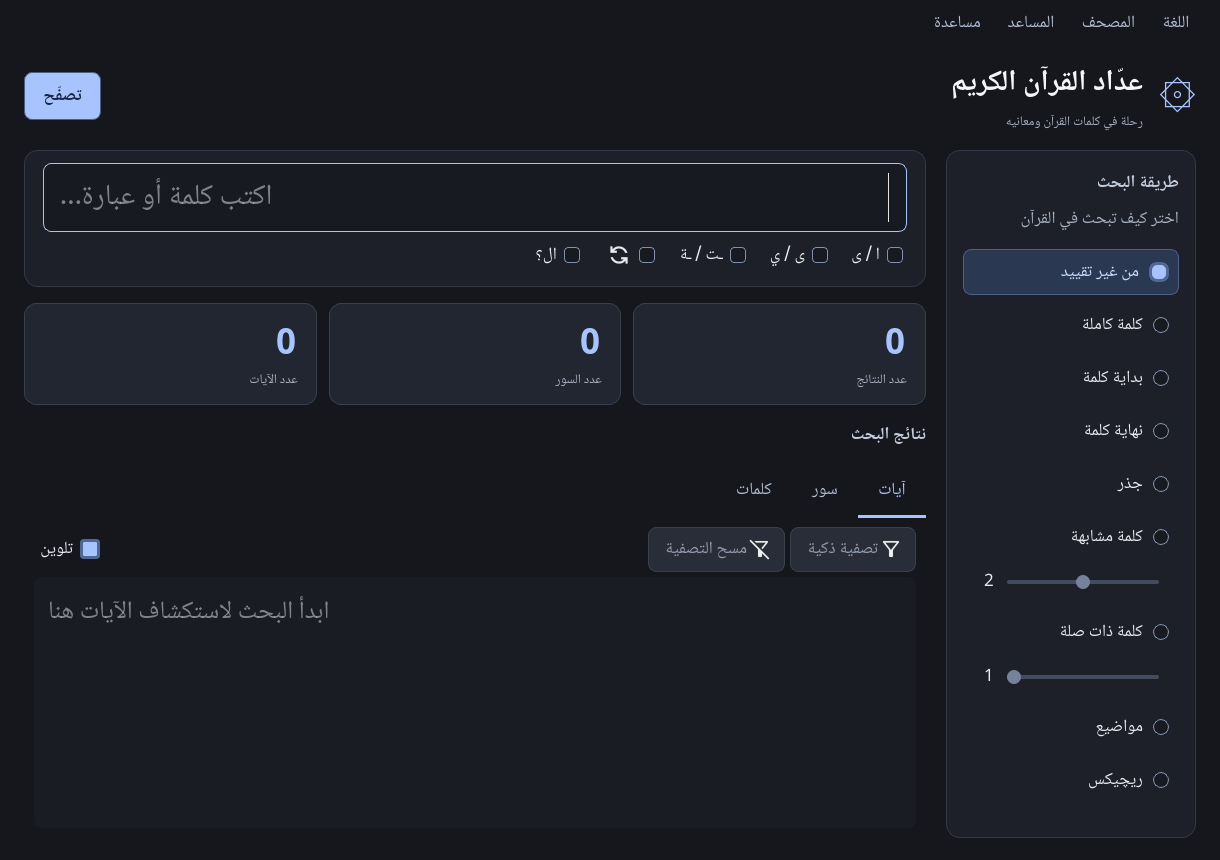
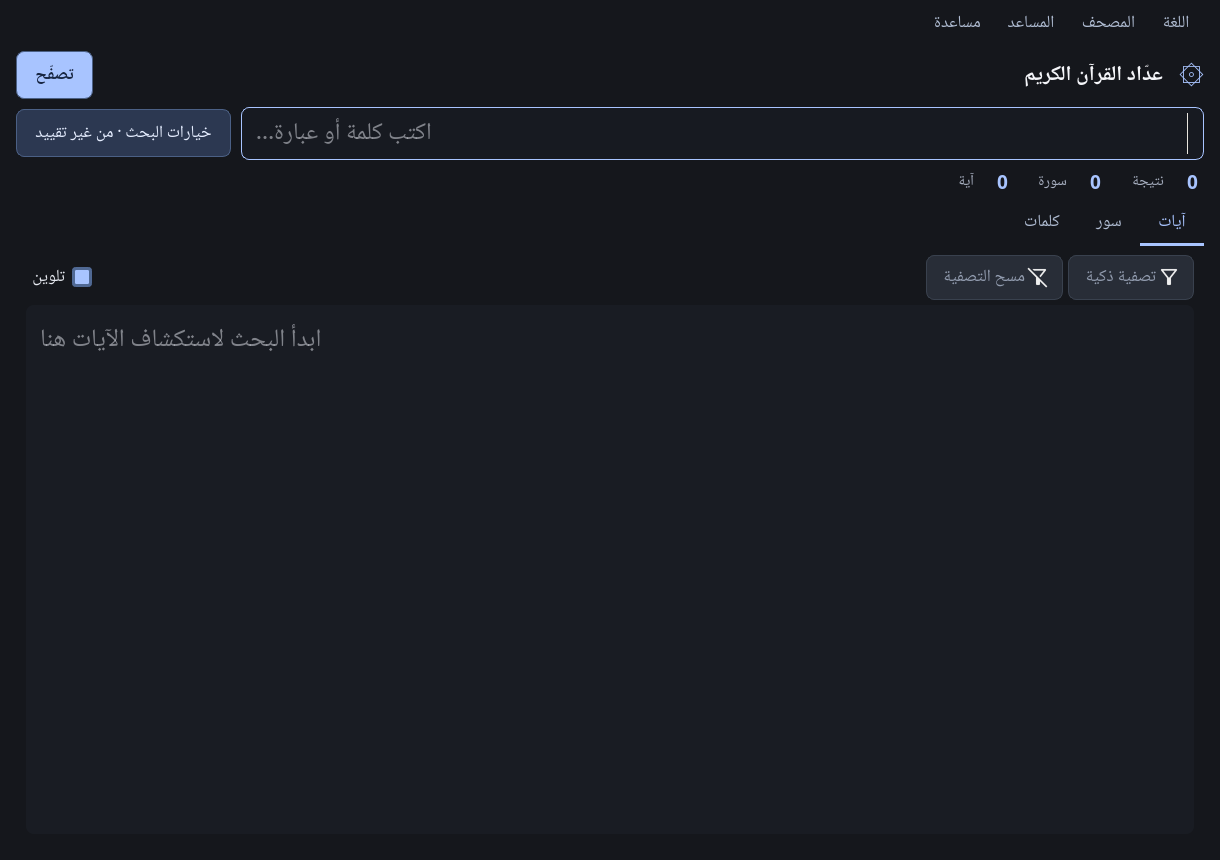
Prioritize results with compact controls and collapsible search options

diff --git a/gui/main_window/modern_main_window.py b/gui/main_window/modern_main_window.py
@@ -29,21 +29,16 @@ class Ui_MainWindow(DesignerUi):
         self.centralwidget = QWidget(window)
         self.centralwidget.setObjectName("centralwidget")
         root = QVBoxLayout(self.centralwidget)
-        root.setContentsMargins(24, 12, 24, 22)
-        root.setSpacing(16)
+        root.setContentsMargins(16, 4, 16, 16)
+        root.setSpacing(8)
 
         header = QHBoxLayout()
         header.setSpacing(16)
         self.brand_mark = QLabel("۞")
         self.brand_mark.setObjectName("brandMark")
         header.addWidget(self.brand_mark)
-        heading = QVBoxLayout()
-        heading.setSpacing(2)
         self.title = self._label("title")
-        self.subtitle = self._label("subtitle")
-        heading.addWidget(self.title)
-        heading.addWidget(self.subtitle)
-        header.addLayout(heading, 1)
+        header.addWidget(self.title, 1)
         self.browse_button = QToolButton()
         self.browse_button.setObjectName("browseButton")
         self.browse_button.setDefaultAction(self.mushafNavigationButton)
@@ -65,10 +60,7 @@ class Ui_MainWindow(DesignerUi):
         modes_layout.setContentsMargins(16, 18, 16, 18)
         modes_layout.setSpacing(7)
         self.modes_title = self._label("section")
-        self.modes_hint = self._label("muted")
-        self.modes_hint.setWordWrap(True)
         modes_layout.addWidget(self.modes_title)
-        modes_layout.addWidget(self.modes_hint)
         modes_layout.addSpacing(8)
         self.mode_buttons = [
             self.noRestrictionsRadioButton, self.fullWordRadioButton,
@@ -84,37 +76,46 @@ class Ui_MainWindow(DesignerUi):
                 modes_layout.addLayout(self._threshold_row(self.similarityThresholdSlider, self.similarityThresholdLabel))
             elif button is self.relatedWordsRadioButton:
                 modes_layout.addLayout(self._threshold_row(self.relatedWordsThresholdSlider, self.relatedWordsThresholdLabel))
+        modes_layout.addSpacing(12)
+        self.refinements_title = self._label("section")
+        modes_layout.addWidget(self.refinements_title)
+        self.refinements = (self.alifAlifMaksuraCheckbox, self.yaAlifMaksuraCheckbox,
+                            self.finalTaCheckbox, self.wordPermutationsCheckbox,
+                            self.optionalAlTarifCheckbox)
+        for checkbox in self.refinements:
+            modes_layout.addWidget(checkbox)
+            checkbox.toggled.connect(self._update_options_summary)
         modes_layout.addStretch()
         self.sidebar.setWidget(modes)
-        workspace.addWidget(self.sidebar)
+        self.sidebar.hide()
 
         content = QVBoxLayout()
-        content.setSpacing(16)
-        search_card, search_layout = self._card()
-        self.label.setProperty("role", "section")
+        content.setSpacing(6)
+        search_row = QHBoxLayout()
+        search_row.setSpacing(10)
         self.label.setBuddy(self.searchWord)
         self.label.hide()
-        self.label.setParent(search_card)
+        self.label.setParent(self.centralwidget)
         self.searchWord.setClearButtonEnabled(True)
         self.searchWord.setLayoutDirection(Qt.LayoutDirection.RightToLeft)
         self.searchWord.setAlignment(Qt.AlignmentFlag.AlignRight)
-        search_layout.addWidget(self.searchWord)
-        options = QHBoxLayout()
-        options.setSpacing(14)
-        for checkbox in (self.alifAlifMaksuraCheckbox, self.yaAlifMaksuraCheckbox,
-                         self.finalTaCheckbox, self.wordPermutationsCheckbox,
-                         self.optionalAlTarifCheckbox):
-            options.addWidget(checkbox)
-        options.addStretch()
-        search_layout.addLayout(options)
-        content.addWidget(search_card)
+        search_row.addWidget(self.searchWord, 1)
+        self.options_button = QToolButton()
+        self.options_button.setObjectName("optionsButton")
+        self.options_button.setCheckable(True)
+        self.options_button.toggled.connect(self._toggle_options)
+        self.searchOptionsButtonGroup.buttonToggled.connect(self._update_options_summary)
+        search_row.addWidget(self.options_button)
+        root.addLayout(search_row)
 
-        stats = QHBoxLayout()
-        stats.setSpacing(12)
+        self.result_summary = QFrame()
+        self.result_summary.setObjectName("resultSummary")
+        stats = QHBoxLayout(self.result_summary)
+        stats.setContentsMargins(4, 0, 4, 0)
+        stats.setSpacing(8)
         for label, value in ((self.label_2, self.matchesNumber),
                              (self.label_4, self.matchesNumberSurahs),
                              (self.label_5, self.matchesNumberVerses)):
-            card, layout = self._card("stat")
             label.setProperty("role", "statLabel")
             value.setProperty("role", "count")
             value.setEnabled(True)
@@ -124,15 +125,13 @@ class Ui_MainWindow(DesignerUi):
             palette = value.palette()
             palette.setColor(QPalette.ColorRole.PlaceholderText, QColor("#a8c4ff"))
             value.setPalette(palette)
-            value.setMinimumWidth(0)
-            value.setSizePolicy(QSizePolicy.Policy.Ignored, QSizePolicy.Policy.Fixed)
-            layout.addWidget(value)
-            layout.addWidget(label)
-            stats.addWidget(card, 1)
-        content.addLayout(stats)
+            value.textChanged.connect(lambda _text, field=value: self._size_count(field))
+            stats.addWidget(value)
+            stats.addWidget(label)
+            stats.addSpacing(20)
+        stats.addStretch()
+        content.addWidget(self.result_summary)
 
-        self.results_title = self._label("section")
-        content.addWidget(self.results_title)
         self.tabWidget.setTabShape(QTabWidget.TabShape.Rounded)
         self.tabWidget.setDocumentMode(True)
         self.tabWidget.tabBar().setDrawBase(False)
@@ -168,20 +167,20 @@ class Ui_MainWindow(DesignerUi):
             table.setMinimumHeight(110)
             table.verticalHeader().setDefaultSectionSize(46)
         workspace.addLayout(content, 1)
+        workspace.addWidget(self.sidebar)
         root.addLayout(workspace, 1)
         window.setCentralWidget(self.centralwidget)
         old_central.deleteLater()
         self.statusbar.hide()
-        window.setMinimumSize(940, 780)
+        window.setMinimumSize(940, 640)
         window.resize(1220, 860)
         self.search_shortcut = QShortcut(QKeySequence("Ctrl+F"), window)
         self.search_shortcut.activated.connect(self._focus_search)
-        focus_order = [self.searchWord, self.alifAlifMaksuraCheckbox,
-                       self.yaAlifMaksuraCheckbox, self.finalTaCheckbox,
-                       self.wordPermutationsCheckbox, self.optionalAlTarifCheckbox,
+        focus_order = [self.searchWord, self.options_button,
                        *self.mode_buttons[:6], self.similarityThresholdSlider,
                        self.relatedWordsRadioButton, self.relatedWordsThresholdSlider,
-                       self.topicsRadioButton, self.regexRadioButton, self.tabWidget]
+                       self.topicsRadioButton, self.regexRadioButton,
+                       *self.refinements, self.tabWidget]
         for previous, following in zip(focus_order, focus_order[1:]):
             QWidget.setTabOrder(previous, following)
         window.setStyleSheet(STYLESHEET)
@@ -193,15 +192,6 @@ class Ui_MainWindow(DesignerUi):
         label = QLabel()
         label.setProperty("role", role)
         return label
-
-    @staticmethod
-    def _card(role="card"):
-        card = QFrame()
-        card.setProperty("role", role)
-        layout = QVBoxLayout(card)
-        layout.setContentsMargins(18, 12, 18, 12)
-        layout.setSpacing(4)
-        return card, layout
 
     @staticmethod
     def _threshold_row(slider, label):
@@ -216,6 +206,30 @@ class Ui_MainWindow(DesignerUi):
         self.searchWord.setFocus()
         self.searchWord.selectAll()
 
+    def _toggle_options(self, expanded):
+        self.sidebar.setVisible(expanded)
+        self._update_options_summary()
+        if not expanded:
+            self.searchWord.setFocus()
+
+    def _update_options_summary(self, *_args):
+        arabic = self._language == AppLang.ARABIC
+        mode = self.searchOptionsButtonGroup.checkedButton().text()
+        count = sum(checkbox.isChecked() for checkbox in self.refinements)
+        label = "خيارات البحث" if arabic else "Search options"
+        suffix = f" (+{count})" if count else ""
+        self.options_button.setText(f"{label} · {mode}{suffix}")
+        self.options_button.setAccessibleName(self.options_button.text())
+        self.options_button.setToolTip(
+            ("إخفاء خيارات البحث" if arabic else "Hide search options")
+            if self.options_button.isChecked() else
+            ("إظهار خيارات البحث" if arabic else "Show search options")
+        )
+
+    @staticmethod
+    def _size_count(field):
+        field.setFixedWidth(max(28, field.fontMetrics().horizontalAdvance(field.text() or "0") + 12))
+
     def retranslateUi(self, window):
         super().retranslateUi(window)
         if hasattr(self, "title"):
@@ -228,10 +242,11 @@ class Ui_MainWindow(DesignerUi):
         window.setLayoutDirection(Qt.LayoutDirection.RightToLeft if arabic else Qt.LayoutDirection.LeftToRight)
         text = lambda ar, en: ar if arabic else en
         self.title.setText(text("عدّاد القرآن الكريم", "Quran Counter"))
-        self.subtitle.setText(text("رحلة في كلمات القرآن ومعانيه", "Explore the words. Discover the connections."))
         self.modes_title.setText(text("طريقة البحث", "SEARCH MODE"))
-        self.modes_hint.setText(text("اختر كيف تبحث في القرآن", "Choose how you explore the Quran."))
-        self.results_title.setText(text("نتائج البحث", "YOUR RESULTS"))
+        self.refinements_title.setText(text("خيارات المطابقة", "MATCHING OPTIONS"))
+        self.label_2.setText(text("نتيجة", "Matches"))
+        self.label_4.setText(text("سورة", "Surahs"))
+        self.label_5.setText(text("آية", "Verses"))
         self.searchWord.setPlaceholderText(text("اكتب كلمة أو عبارة…", "Search an Arabic word or phrase…"))
         self.searchWord.setAccessibleName(text("البحث في القرآن", "Search the Quran"))
         self.searchWord.setToolTip(text("تظهر النتائج أثناء الكتابة · Ctrl+F", "Results update as you type · Ctrl+F"))
@@ -243,6 +258,8 @@ class Ui_MainWindow(DesignerUi):
                             (self.topicResultsTableWidget, self.label_10)):
             table.setToolTip(hint.text())
         self.wordPermutationsCheckbox.setAccessibleName(self.wordPermutationsCheckbox.toolTip())
+        self.wordPermutationsCheckbox.setText(text("تبديل ترتيب الكلمات", "Any word order"))
+        self.wordPermutationsCheckbox.setIcon(QIcon())
         for menu, ar, en in ((self.menu_Language, "اللغة", "Language"),
                              (self.mushafViewButton, "المصحف", "Quran"),
                              (self.menuChatGPT, "المساعد", "Assistant"),
@@ -259,3 +276,6 @@ class Ui_MainWindow(DesignerUi):
             widget.style().unpolish(widget)
             widget.style().polish(widget)
             widget.updateGeometry()
+        for field in (self.matchesNumber, self.matchesNumberSurahs, self.matchesNumberVerses):
+            self._size_count(field)
+        self._update_options_summary()

diff --git a/tests/test_modern_ui.py b/tests/test_modern_ui.py
@@ -114,7 +114,7 @@ class ModernUiTest(unittest.TestCase):
         for language in (AppLang.ARABIC, AppLang.ENGLISH):
             if language == AppLang.ENGLISH:
                 self.english()
-            self.window.resize(940, 780)
+            self.window.resize(940, 640)
             self.app.processEvents()
             for widget in (self.ui.searchWord, self.ui.tabWidget, self.ui.foundVerses,
                            self.ui.browse_button, self.ui.matchesNumber):
@@ -123,14 +123,55 @@ class ModernUiTest(unittest.TestCase):
                     bottom_right = widget.mapTo(self.window, widget.rect().bottomRight())
                     self.assertTrue(self.window.rect().contains(top_left))
                     self.assertTrue(self.window.rect().contains(bottom_right))
-            self.ui.sidebar.ensureWidgetVisible(self.ui.regexRadioButton)
+            self.ui.options_button.setChecked(True)
             self.app.processEvents()
-            center = self.ui.regexRadioButton.mapTo(self.ui.sidebar.viewport(), self.ui.regexRadioButton.rect().center())
+            self.ui.sidebar.ensureWidgetVisible(self.ui.optionalAlTarifCheckbox)
+            self.app.processEvents()
+            center = self.ui.optionalAlTarifCheckbox.mapTo(self.ui.sidebar.viewport(), self.ui.optionalAlTarifCheckbox.rect().center())
             self.assertTrue(self.ui.sidebar.viewport().rect().contains(center))
+            self.ui.options_button.setChecked(False)
+
+    def test_results_have_priority_in_both_languages(self):
+        for language in (AppLang.ARABIC, AppLang.ENGLISH):
+            if language == AppLang.ENGLISH:
+                self.english()
+            self.window.resize(1220, 860)
+            self.app.processEvents()
+            with self.subTest(language=language):
+                self.assertFalse(self.ui.sidebar.isVisible())
+                self.assertGreater(self.ui.foundVerses.width(), self.window.width() * 0.95)
+                self.assertGreater(self.ui.foundVerses.height(), self.window.height() * 0.60)
+
+    def test_options_panel_preserves_search_and_results(self):
+        self.ui.searchWord.setText("الرحمة")
+        self.ui.foundVerses.setPlainText("نتيجة تجريبية")
+        self.ui.matchesNumber.setText("1234567")
+        query_changes = QSignalSpy(self.ui.searchWord.textChanged)
+        QTest.mouseClick(self.ui.options_button, Qt.MouseButton.LeftButton)
+        self.app.processEvents()
+        self.assertTrue(self.ui.sidebar.isVisible())
+        self.ui.fullWordRadioButton.click()
+        self.ui.optionalAlTarifCheckbox.click()
+        self.assertIn(self.ui.fullWordRadioButton.text(), self.ui.options_button.text())
+        self.assertIn("(+1)", self.ui.options_button.text())
+        self.english()
+        self.assertTrue(self.ui.sidebar.isVisible())
+        self.assertIn("Full word", self.ui.options_button.text())
+        QTest.mouseClick(self.ui.options_button, Qt.MouseButton.LeftButton)
+        self.app.processEvents()
+        self.assertFalse(self.ui.sidebar.isVisible())
+        self.assertTrue(self.ui.fullWordRadioButton.isChecked())
+        self.assertTrue(self.ui.optionalAlTarifCheckbox.isChecked())
+        self.assertEqual(self.ui.searchWord.text(), "الرحمة")
+        self.assertEqual(self.ui.foundVerses.toPlainText(), "نتيجة تجريبية")
+        self.assertEqual(self.ui.matchesNumber.text(), "1234567")
+        self.assertGreater(self.ui.matchesNumber.width(), self.ui.matchesNumber.fontMetrics().horizontalAdvance("1234567"))
+        self.assertEqual(query_changes.count(), 0)
+        self.assertTrue(self.ui.searchWord.hasFocus())
 
     def test_all_result_tabs_and_controller_visibility_remain_available(self):
         self.assertEqual(self.ui.tabWidget.count(), 4)
-        self.window.resize(940, 780)
+        self.window.resize(940, 640)
         for index in range(4):
             self.ui.tabWidget.setCurrentIndex(index)
             self.app.processEvents()

diff --git a/gui/main_window/theme.py b/gui/main_window/theme.py
@@ -9,24 +9,23 @@ QWidget {
 QMainWindow, QWidget#centralwidget { background: #15171c; }
 QWidget[arabic="true"] { font-family: "Noto Naskh Arabic"; font-size: 13pt; }
 QLabel, QCheckBox, QRadioButton { background: transparent; }
-QLabel[role="title"] { font-size: 22pt; font-weight: 600; color: #f4f5f9; }
-QLabel[role="subtitle"], QLabel[role="muted"] { color: #a8b0c1; }
-QLabel[role="subtitle"], QLabel[role="statLabel"] { color: #a8b0c1; font-size: 10pt; }
+QLabel[role="title"] { font-size: 16pt; font-weight: 600; color: #f4f5f9; }
+QLabel[role="muted"] { color: #a8b0c1; }
+QLabel[role="statLabel"] { color: #a8b0c1; font-size: 11pt; }
 QLabel[role="section"] { color: #c3ccdd; font-weight: 600; }
-QLabel#brandMark { color: #a8c4ff; font-size: 30pt; }
-QFrame[role="card"], QScrollArea#searchSidebar {
+QLabel#brandMark { color: #a8c4ff; font-size: 20pt; }
+QScrollArea#searchSidebar {
     background: #1d2028; border: 1px solid #343945; border-radius: 14px;
 }
 QWidget#searchModes { background: transparent; }
-QFrame[role="stat"] { background: #222630; border: 1px solid #3a414e; border-radius: 12px; }
 QLineEdit {
     background: #171a21; border: 1px solid #485162; border-radius: 8px;
     padding: 7px 10px; selection-background-color: #3c568a; selection-color: #ffffff;
 }
 QLineEdit:focus { border: 1px solid #a8c4ff; }
-QLineEdit#searchWord { font-family: "Noto Naskh Arabic"; font-size: 22pt; padding: 8px 14px; }
+QLineEdit#searchWord { font-family: "Noto Naskh Arabic"; font-size: 18pt; padding: 4px 12px; }
 QLineEdit[role="count"] {
-    background: transparent; border: none; color: #a8c4ff; font-size: 26pt;
+    background: transparent; border: none; color: #a8c4ff; font-size: 14pt;
     font-family: "Segoe UI", "Noto Sans", sans-serif; font-weight: 600; padding: 0;
 }
 QLineEdit:disabled { color: #c3ccdd; background: #282e3a; }
@@ -41,6 +40,7 @@ QPushButton:focus, QToolButton:focus { border: 1px solid #c8d8ff; }
 QPushButton:disabled { background: #282d37; border-color: #39414e; color: #929caf; }
 QToolButton#browseButton { background: #a8c4ff; color: #182642; font-weight: 600; }
 QToolButton#browseButton:hover { background: #c8daff; }
+QToolButton#optionsButton:checked { background: #354a72; border-color: #a8c4ff; }
 QCheckBox { spacing: 7px; padding: 4px; }
 QRadioButton { spacing: 10px; padding: 7px 9px; border: 1px solid transparent; border-radius: 8px; }
 QRadioButton:hover { background: #29313e; }
@@ -60,7 +60,7 @@ QSlider::handle:horizontal { background: #a8c4ff; width: 14px; margin: -5px 0; b
 QSlider::handle:horizontal:disabled { background: #758299; }
 QSlider:focus { border: 1px solid #a8c4ff; border-radius: 4px; }
 QTabWidget::pane { background: #1d2028; border: 1px solid #343945; border-radius: 10px; top: -1px; }
-QTabBar::tab { background: transparent; color: #b0bdd3; padding: 10px 20px; border-bottom: 3px solid transparent; }
+QTabBar::tab { background: transparent; color: #b0bdd3; padding: 6px 18px; border-bottom: 3px solid transparent; }
 QTabBar::tab:selected { color: #a8c4ff; border-bottom-color: #a8c4ff; }
 QTabBar::tab:hover { background: #28303f; }
 QTextBrowser, QTableWidget {

diff --git a/README.md b/README.md
@@ -4,7 +4,7 @@
 
 **Quran counter** is a tool for fast and flexible semantic and syntactic search in the Holy Quran (`exe` download link [at the bottom](#notes)).
 
-The desktop interface supports English and Arabic, with mirrored layouts, a charcoal and slate theme with soft blue accents, a dedicated search-mode panel, and result summary cards. Press **Ctrl+F** to focus search; results still update as you type.
+The desktop interface supports English and Arabic, with mirrored layouts and a charcoal and slate theme with soft blue accents. Results use the full width by default, beneath a compact search toolbar and inline totals. **Search options** opens the mode and matching controls; its label shows the current mode and number of active matching options even when collapsed. Press **Ctrl+F** to focus search; results still update as you type.
 
 <img alt="Modern English interface" src="docs/ui/english.png" width="600">
 <img alt="Modern Arabic interface" src="docs/ui/arabic.png" width="600">
@@ -21,7 +21,7 @@ python tools/render_ui_preview.py --language en --output work/english.png
 python tools/render_ui_preview.py --language ar --output work/arabic.png
 ```
 
-The tests cover language switching, preserved control signals and state, keyboard search, read-only counts, tab visibility, and a 940 × 780 window. The preview command captures the real form without starting search workers. It is not a functional search demo: full application testing still requires the separately distributed `data/` files, which are excluded from this repository. The feature screenshots below show earlier versions.
+The tests cover language switching, preserved control signals and state, keyboard search, read-only counts, tab visibility, and a 940 × 640 window. They also verify that collapsing options preserves the query and results, and that the results pane occupies over 95% of the width and 60% of the height at the default 1220 × 860 size in both languages. The preview command captures the real form without starting search workers. It is not a functional search demo: full application testing still requires the separately distributed `data/` files, which are excluded from this repository. The feature screenshots below show earlier versions.
 
 Here's a breakdown of some of the various features the app provides:
 
